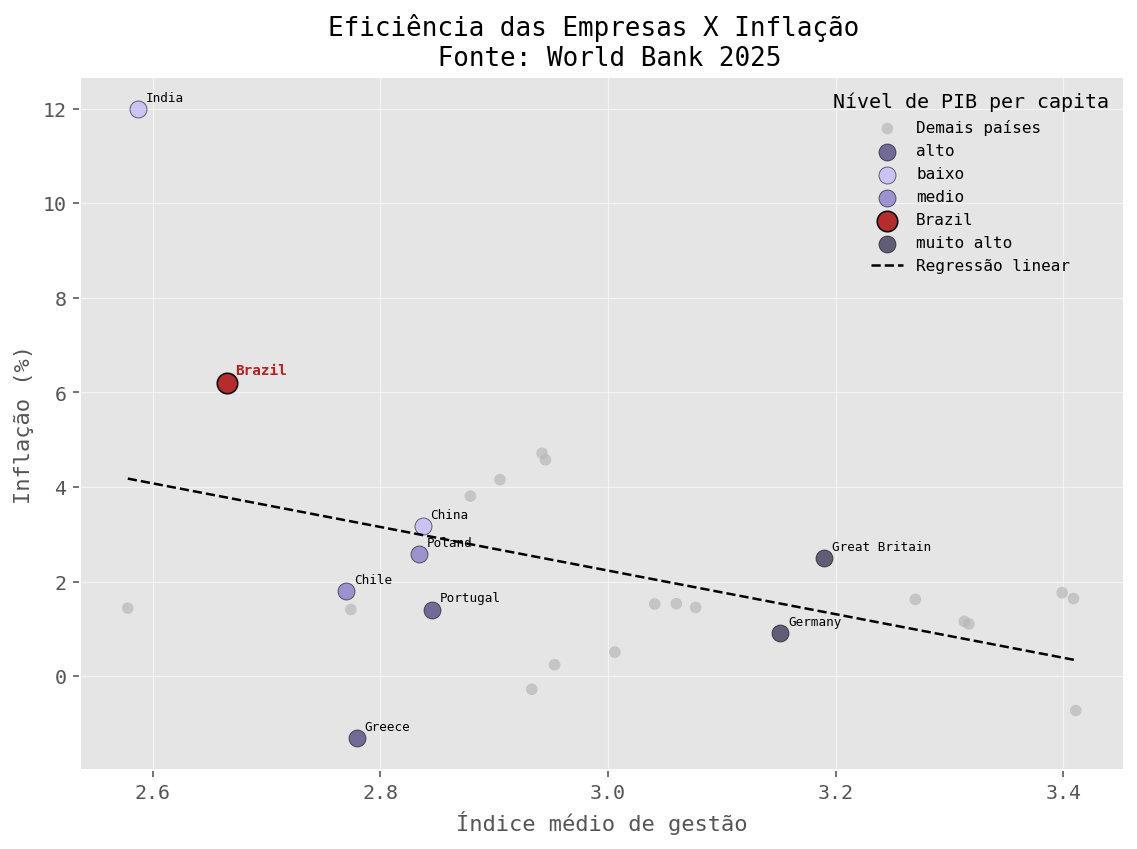
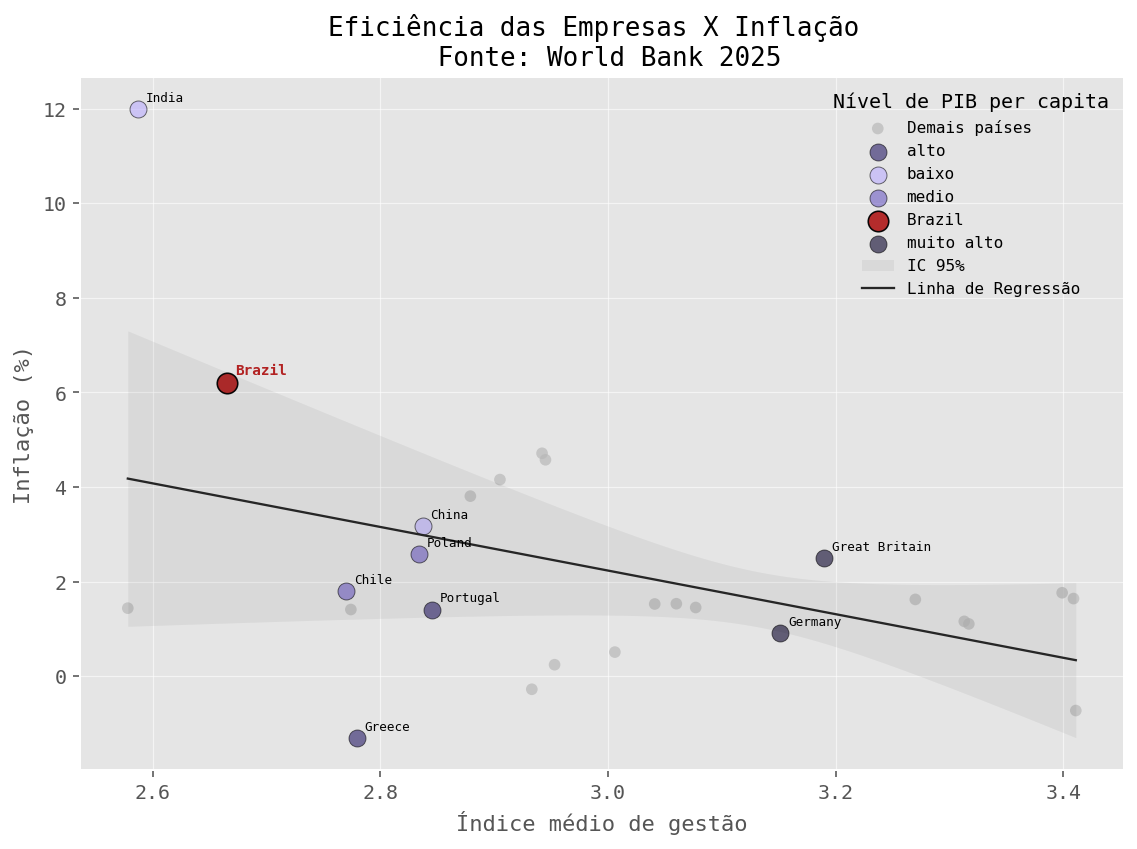
alterações leves pro final

diff --git a/Regressoes.py b/Regressoes.py
@@ -33,8 +33,8 @@ def rodar_modelo_management_macro(
     transformar_log=False,
     destacar_brasil=True
 ):
-    import numpy as np
-    import pandas as pd
+    import numpy as np # eu tava tendo bug em que não conseguia usar essa função sem importar os pacotes por dentro dela
+    import pandas as pd # não sei a razão desse bug! mas importar dessa forma resolveu
     import matplotlib.pyplot as plt
     import statsmodels.formula.api as smf
 
@@ -54,9 +54,9 @@ def rodar_modelo_management_macro(
     destacar_brasil: se True, destaca o Brasil em vermelho.
     """
 
-    # ------------------------------------------------------------
+    # ============================================================
     # Preparando base macro
-    # ------------------------------------------------------------
+    # ============================================================
 
     macro = dados_macro.copy()
     macro.columns = macro.columns.str.strip()
@@ -83,9 +83,9 @@ def rodar_modelo_management_macro(
         keep="first"
     ).copy()
 
-    # ------------------------------------------------------------
+    # ============================================================
     # Merge país-ano
-    # ------------------------------------------------------------
+    # ============================================================
 
     base = dados_management.merge(
         macro,
@@ -98,18 +98,18 @@ def rodar_modelo_management_macro(
         subset=["management_medio", coluna_macro]
     ).copy()
 
-    # ------------------------------------------------------------
+    # ============================================================
     # Criando variável dependente
-    # ------------------------------------------------------------
+    # ============================================================
 
     if transformar_log:
         base[nome_modelo] = np.log(base[coluna_macro])
     else:
         base[nome_modelo] = base[coluna_macro]
 
-    # ------------------------------------------------------------
+    # ============================================================
     # Correlação
-    # ------------------------------------------------------------
+    # ============================================================
 
     correlacao = base["management_medio"].corr(base[nome_modelo])
 
@@ -121,9 +121,9 @@ def rodar_modelo_management_macro(
     print("Países presentes:")
     print(base["country"].unique())
 
-    # ------------------------------------------------------------
+    # ============================================================
     # Regressão linear
-    # ------------------------------------------------------------
+    # ============================================================
 
     formula = f"{nome_modelo} ~ management_medio"
 
@@ -134,16 +134,16 @@ def rodar_modelo_management_macro(
 
     print(modelo.summary())
 
-    # ------------------------------------------------------------
+    # ============================================================
     # Selecionando países destacados
-    # ------------------------------------------------------------
+    # ============================================================
 
     base_representativa = base.copy()
 
     base_representativa["dist_mediana_grupo"] = (
         base_representativa
         .groupby("nível_pib_per_capita")["management_medio"]
-        .transform(lambda x: np.abs(x - x.median()))
+        .transform(lambda x: np.abs(x - x.median())) # países que de regressão dada suas respectivas categorias serão os escolhidos
     )
 
     paises_destaque = (
@@ -172,9 +172,9 @@ def rodar_modelo_management_macro(
         base.index.isin(paises_destaque.index)
     ].copy()
 
-    # ------------------------------------------------------------
+    # ============================================================
     # Gráfico
-    # ------------------------------------------------------------
+    # ============================================================
 
     cores_grupos = {
         "baixo": "#bbadff",
@@ -229,25 +229,40 @@ def rodar_modelo_management_macro(
                 label="Brazil"
             )
 
-    # Reta de regressão
+    # intervalos por onde a reta vai passar
+    
     x_linha = np.linspace(
         base["management_medio"].min(),
         base["management_medio"].max(),
         100
     )
 
-    y_linha = (
-        modelo.params["Intercept"]
-        + modelo.params["management_medio"] * x_linha
-    )
+    # Reta de regressão com intervalo de confiança
 
+    dados_predicao = pd.DataFrame({"management_medio": x_linha})
+    predicao = modelo.get_prediction(dados_predicao).summary_frame(alpha=0.05)
+    
+    y_linha = predicao["mean"]
+    limite_inferior = predicao["mean_ci_lower"]
+    limite_superior = predicao["mean_ci_upper"]
+    
+    ax.fill_between(
+    x_linha,
+    limite_inferior,
+    limite_superior,
+    color="black",
+    alpha=0.05,
+    linewidth=0,
+    label="IC 95%"
+    )
+    
     ax.plot(
         x_linha,
         y_linha,
-        color="black",
-        linestyle="--",
-        linewidth=1.25,
-        label="Regressão linear"
+        color="#262626",
+        linestyle="-",
+        linewidth=1.15,
+        label="Linha de Regressão"
     )
 
     # Rótulos dos países destacados